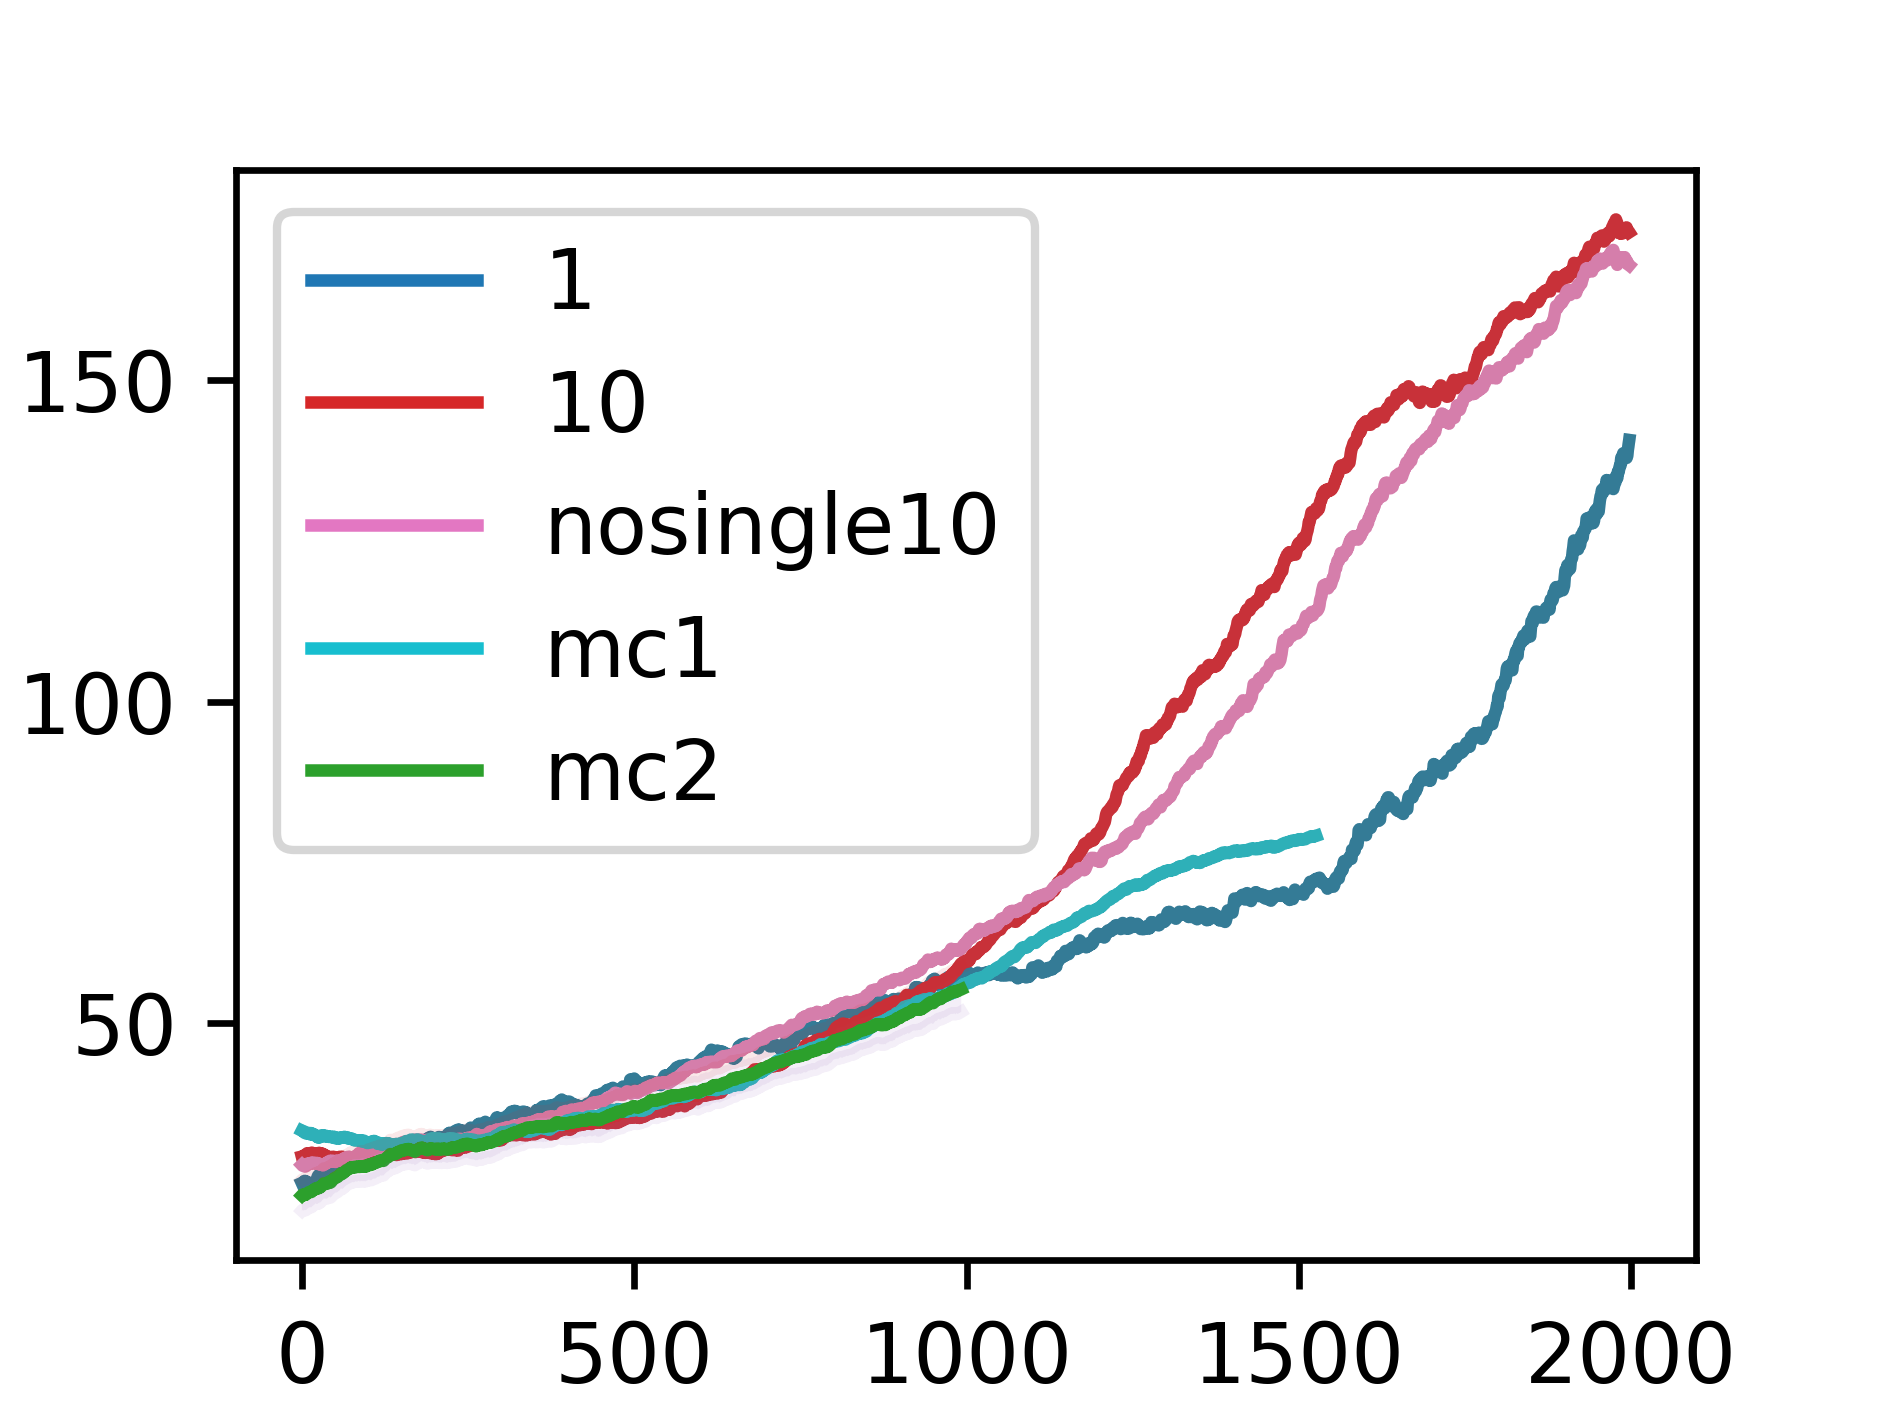
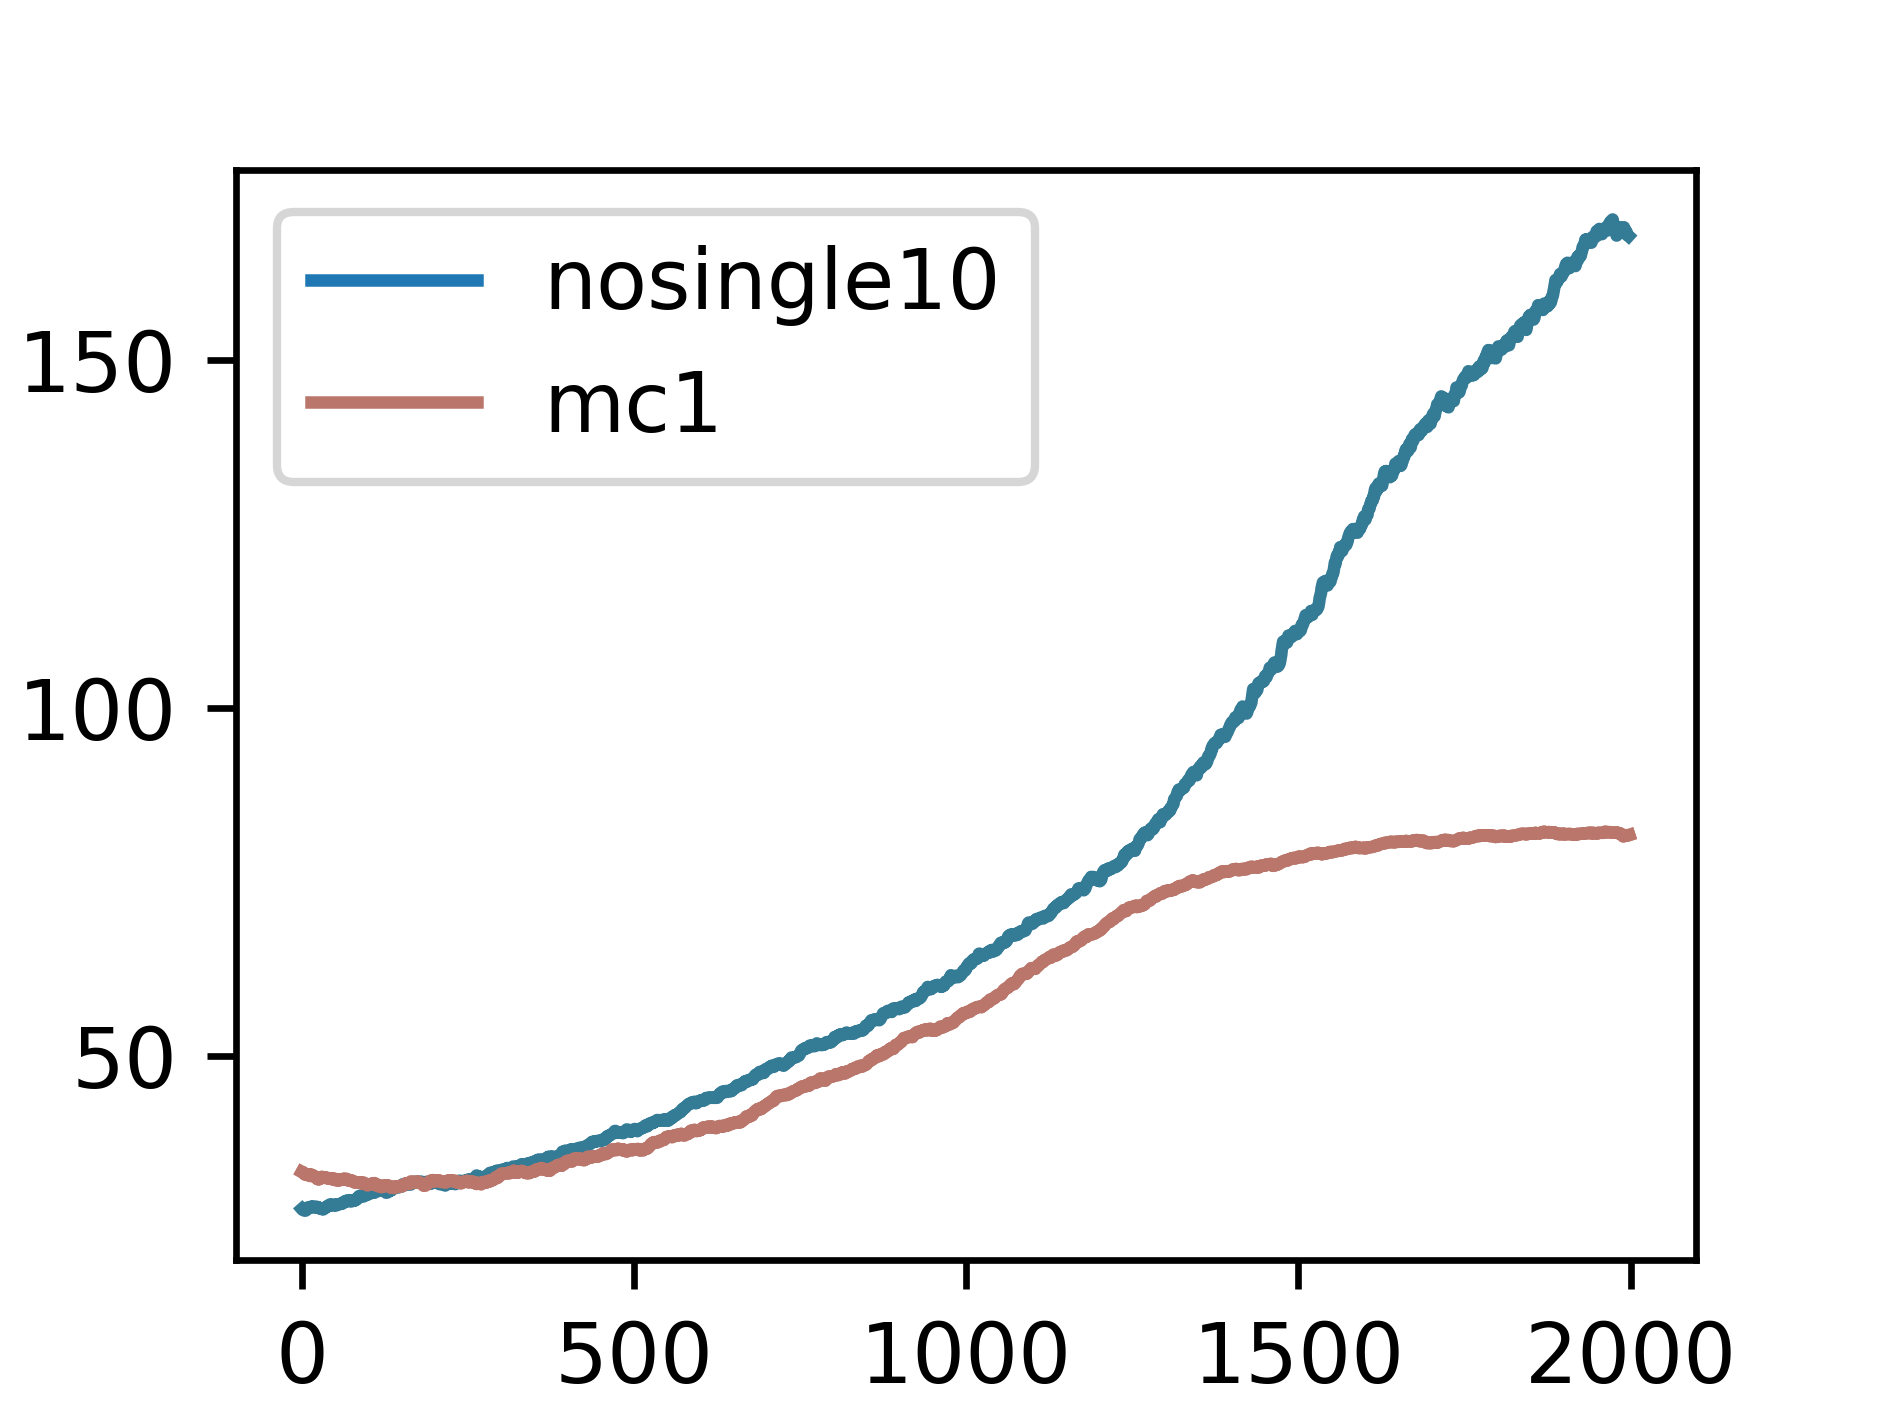
new

diff --git a/plot_test.py b/plot_test.py
@@ -8,6 +8,7 @@ dname = os.path.dirname(abspath)
 os.chdir(dname)
 import numpy as np
 import re 
+import random 
 import matplotlib.pyplot as plt
 
 
@@ -86,18 +87,18 @@ def np_smooth(targets, weight=0.99):  # Weight between 0 and 1
 
 if __name__ =="__main__":
     fig, ax = plt.subplots(figsize=(1.57 * 2, 1.18 * 2), dpi=600)
-    for e in [1, 10]:
-        epic_mean, epic_std = read_rewards_multi(filename='./results/test/multimodal/EPIC_CartPole-v0_vpg_s2000_n{}_every25_size32_c0.5_tau0.5_goal10.0_steps300_mass5.0'.format(e),
-                                                samples=2000,
-                                                episodes=e,
-                                                runs=1)
+    # for e in [1, 10]:
+    #     epic_mean, epic_std = read_rewards_multi(filename='./results/test/multimodal/EPIC_CartPole-v0_vpg_s2000_n{}_every25_size32_c0.5_tau0.5_goal10.0_steps300_mass5.0'.format(e),
+    #                                             samples=2000,
+    #                                             episodes=e,
+    #                                             runs=1)
     
     
-        x_vals = list(range(len(epic_mean)))
-        ax.plot(x_vals, epic_mean, label = e)
-        ax.plot(x_vals, epic_mean+epic_std,  alpha=0.1)
-        ax.plot(x_vals, epic_mean-epic_std,  alpha=0.1)
-        ax.fill_between(x_vals, y1=epic_mean-epic_std, y2=epic_mean+epic_std, alpha=0.1)
+    #     x_vals = list(range(len(epic_mean)))
+    #     ax.plot(x_vals, epic_mean, label = e)
+    #     ax.plot(x_vals, epic_mean+epic_std,  alpha=0.1)
+    #     ax.plot(x_vals, epic_mean-epic_std,  alpha=0.1)
+    #     ax.fill_between(x_vals, y1=epic_mean-epic_std, y2=epic_mean+epic_std, alpha=0.1)
 
     for e in [10]:
         epic_mean, epic_std = read_rewards_multi(filename='./results/test/nosingle/multimodal/EPIC_CartPole-v0_vpg_s2000_n{}_every25_size32_c0.5_tau0.5_goal10.0_steps300_mass5.0'.format(e),
@@ -112,8 +113,15 @@ if __name__ =="__main__":
         ax.plot(x_vals, epic_mean-epic_std,  alpha=0.1)
         ax.fill_between(x_vals, y1=epic_mean-epic_std, y2=epic_mean+epic_std, alpha=0.1)
 
+    colors = {}
+    ms = [1]
+    for i in ms:
+        r = random.uniform(0, 1)
+        g = random.uniform(0, 1)
+        b = random.uniform(0, 1)
+        colors[i] = (r,g,b)
     
-    for m in [2,1]:
+    for m in ms:
         fname = './results/montecarlo/new/multimodal/EPIC_CartPole-v0_vpg_s2000_n10_every25_size32_c0.5_tau0.5_goal10.0_steps100_mass5.0_mc{}'.format(m)
         epic_mean_std = read_rewards_multi_mc(filename=fname,
                                              samples=2000,
@@ -121,11 +129,11 @@ if __name__ =="__main__":
     
     
         x_vals = list(range(epic_mean_std.shape[0]))
-        ax.plot(x_vals, epic_mean_std[:,0], label = "mc{}".format(m))
-        ax.plot(x_vals, epic_mean_std[:,0]+epic_mean_std[:,1], alpha=0.1)
-        ax.plot(x_vals, epic_mean_std[:,0]-epic_mean_std[:,1], alpha=0.1)
+        ax.plot(x_vals, epic_mean_std[:,0], color = colors[m], label = "mc{}".format(m))
+        ax.plot(x_vals, epic_mean_std[:,0]+epic_mean_std[:,1],color = colors[m], alpha=0.5)
+        ax.plot(x_vals, epic_mean_std[:,0]-epic_mean_std[:,1], color = colors[m],alpha=0.5)
         ax.fill_between(x_vals, y1=epic_mean_std[:,0]-epic_mean_std[:,1], \
-                        y2=epic_mean_std[:,0]+epic_mean_std[:,1], alpha=0.1)
+                        y2=epic_mean_std[:,0]+epic_mean_std[:,1], color = colors[m],alpha=0.5)
 
     
     ax.set_xticks([0, 500, 1000, 1500, 2000])

diff --git a/algos/agents/gaussian_vpg_mc.py b/algos/agents/gaussian_vpg_mc.py
@@ -381,7 +381,7 @@ class GaussianVPGMC(nn.Module):
                     v[key]+=policy_m_para_after[key] - policy_m_para_before[key]
             
         for key, meta_para in zip(v, self.new_default_policy.parameters()):
-            meta_para.data.copy_(meta_para.data + 1/self.m*v[key])
+            meta_para.data.copy_(meta_para.data + self.m*v[key])
        
 
     def update_default_and_prior_policy(self):
